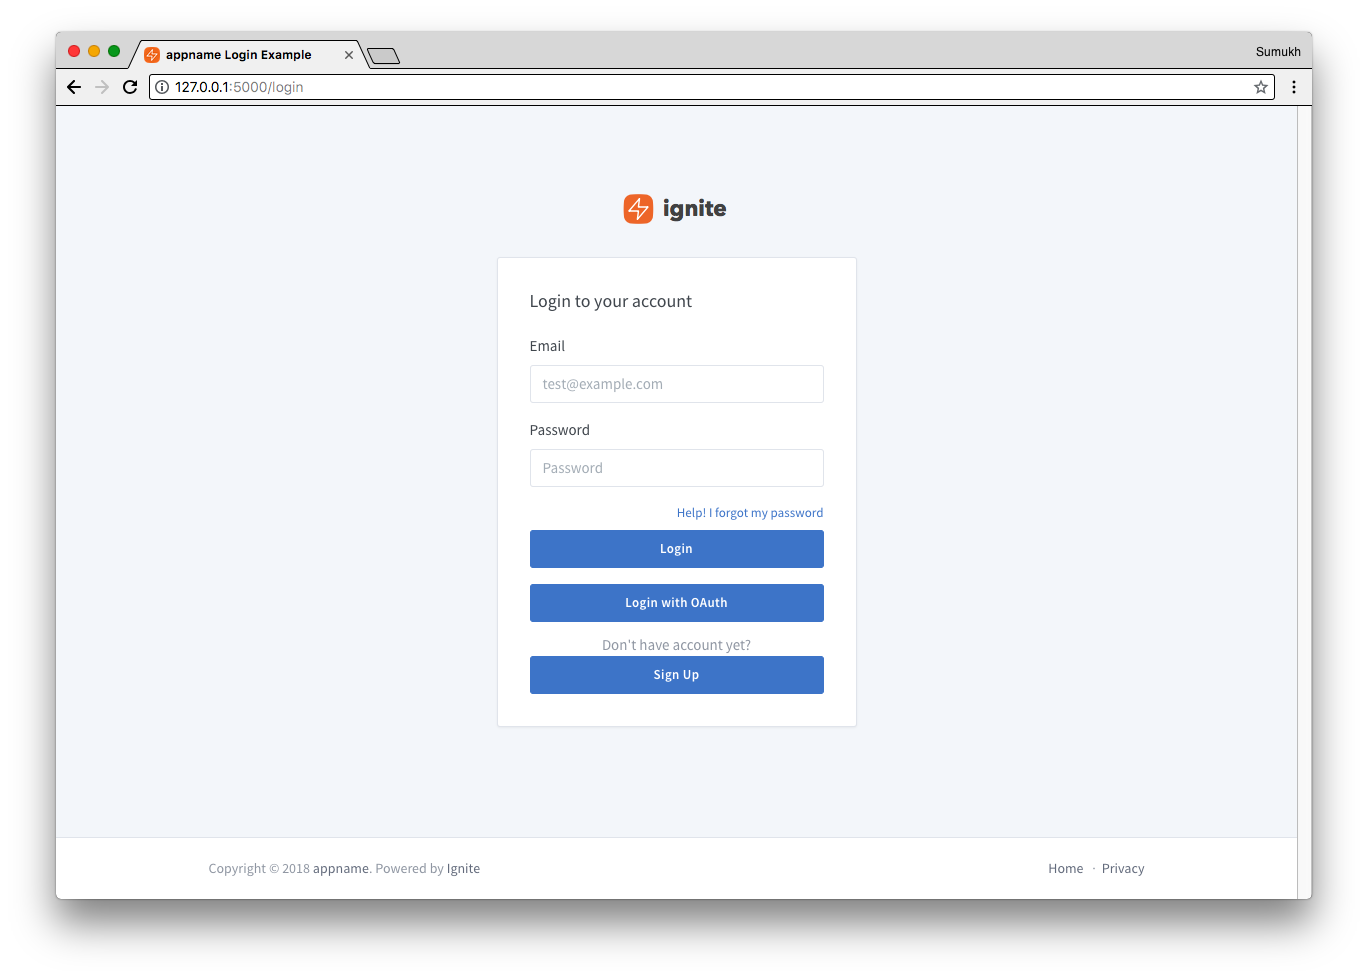
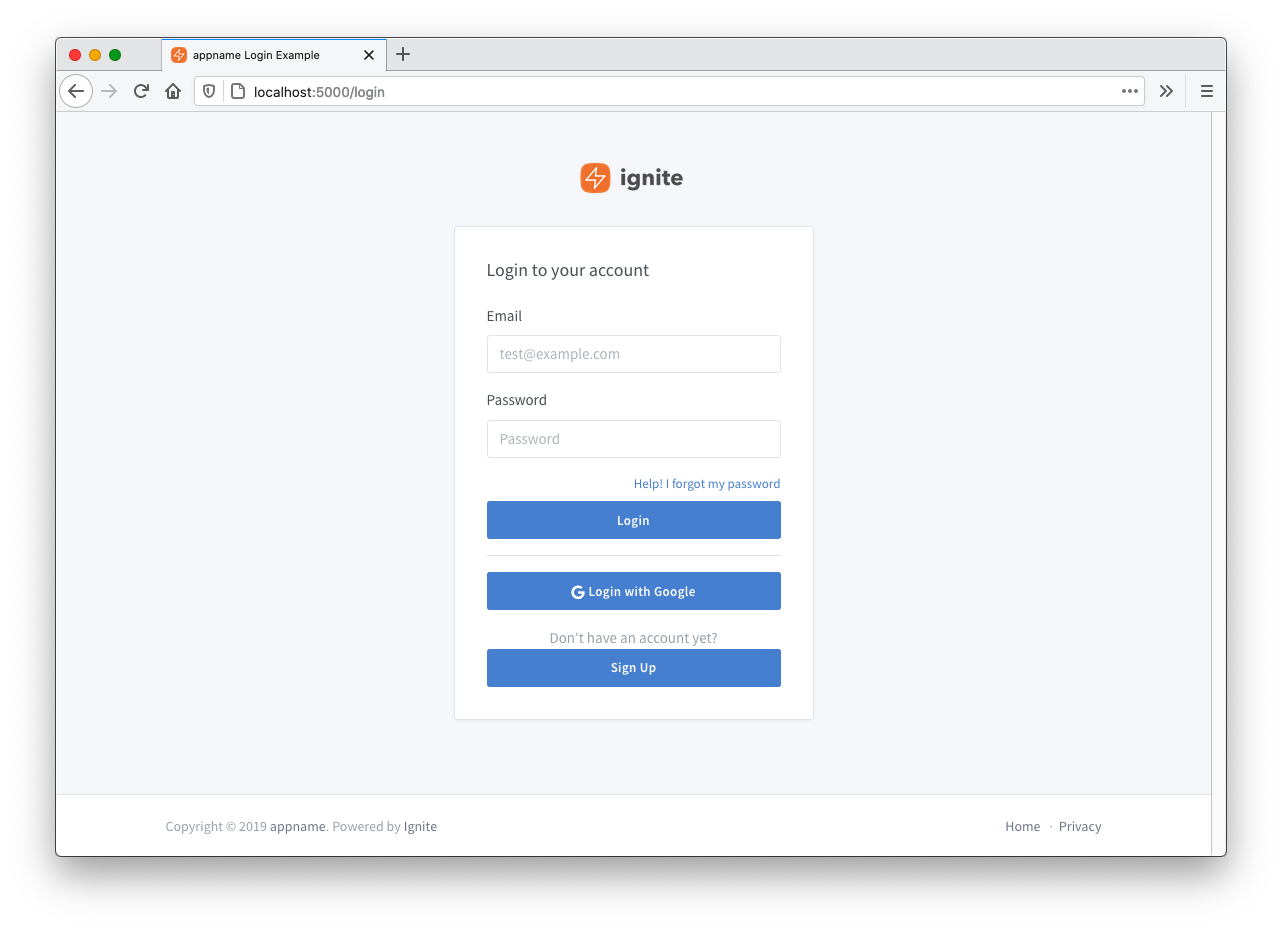
Minor tweaks + Screenshots

diff --git a/appname/templates/tabler/_header.html b/appname/templates/tabler/_header.html
@@ -2,7 +2,7 @@
     <div class="container">
         <div class="d-flex">
         <a class="header-brand" href="{{ url_for('main.home') }}">
-            <img src="{{ url_for('static', filename='public/ignite/ignite-logo.svg') }}" class="header-brand-img" alt="tabler logo">
+            <img src="{{ url_for('static', filename='public/ignite/ignite-logo@2x.png') }}" class="header-brand-img" alt="tabler logo">
         </a>
         <div class="d-flex order-lg-2 ml-auto">
             <div class="nav-item d-none d-md-flex">
@@ -13,8 +13,12 @@
                     <a href="#" class="nav-link pr-0 leading-none" data-toggle="dropdown">
                         <span class="avatar avatar-placeholder"></span>
                         <span class="ml-2 d-none d-lg-block">
-                        <span class="text-default">{{ current_user.email }}</span>
-                        <small class="text-muted d-block mt-1">Administrator</small>
+                        {% if current_user.full_name %}
+                            <span class="text-default">{{ current_user.full_name }}</span>
+                            <small class="text-muted d-block mt-1">{{ current_user.email }}</small>
+                        {% else %}
+                            <span class="text-default">{{ current_user.email }}</span>
+                        {% endif %}
                         </span>
                     </a>
                     <div class="dropdown-menu dropdown-menu-right dropdown-menu-arrow">

diff --git a/appname/templates/auth/invite.html b/appname/templates/auth/invite.html
@@ -9,7 +9,7 @@
         <div class="row">
             <div class="col col-login mx-auto">
                 <div class="text-center mb-6">
-                    <img src="{{ url_for('static', filename='public/ignite/ignite-logo.svg') }}" class="h-6" alt="Tabler">
+                    <img src="{{ url_for('static', filename='public/ignite/ignite-logo@2x.png') }}" class="h-6" alt="Tabler">
                     <h2> appname </h2>
                 </div>
                 <form role="form" class="card" action="{{ url_for('auth.signup', invite_secret=invite.invite_secret) }}" method="post">

diff --git a/appname/templates/auth/login.html b/appname/templates/auth/login.html
@@ -11,7 +11,7 @@
             <div class="col col-login mx-auto">
                 <div class="text-center mb-6">
                     {{ render_flashes() }}
-                    <img src="{{ url_for('static', filename='public/ignite/ignite-logo.svg') }}" class="h-6" alt="Tabler">
+                    <img src="{{ url_for('static', filename='public/ignite/ignite-logo@2x.png') }}" class="h-6" alt="Tabler">
                 </div>
                 <form role="form" class="card" action="{{ url_for('auth.login') }}" method="post">
 

diff --git a/appname/templates/auth/oauth_only_login.html b/appname/templates/auth/oauth_only_login.html
@@ -11,7 +11,7 @@
             <div class="col col-login mx-auto">
                 <div class="text-center mb-6">
                     {{ render_flashes() }}
-                    <img src="{{ url_for('static', filename='public/ignite/ignite-logo.svg') }}" class="h-6" alt="Tabler">
+                    <img src="{{ url_for('static', filename='public/ignite/ignite-logo@2x.png') }}" class="h-6" alt="Tabler">
                 </div>
                 <div class="card">
                     <div class="text-center mt-4 mb-4">

diff --git a/appname/templates/auth/signup.html b/appname/templates/auth/signup.html
@@ -9,7 +9,7 @@
         <div class="row">
             <div class="col col-login mx-auto">
                 <div class="text-center mb-6">
-                    <img src="{{ url_for('static', filename='public/ignite/ignite-logo.svg') }}" class="h-6" alt="Tabler">
+                    <img src="{{ url_for('static', filename='public/ignite/ignite-logo@2x.png') }}" class="h-6" alt="Tabler">
                 </div>
                 <div class="card">
                     <div class="card-body">

diff --git a/appname/templates/auth/request_password_reset.html b/appname/templates/auth/request_password_reset.html
@@ -9,7 +9,7 @@
         <div class="row">
             <div class="col col-login mx-auto">
                 <div class="text-center mb-6">
-                    <img src="{{ url_for('static', filename='public/ignite/ignite-logo.svg') }}" class="h-6" alt="Tabler">
+                    <img src="{{ url_for('static', filename='public/ignite/ignite-logo@2x.png') }}" class="h-6" alt="Tabler">
                     <h2> appname </h2>
                 </div>
 

diff --git a/appname/controllers/settings.py b/appname/controllers/settings.py
@@ -23,6 +23,11 @@ def index():
 @login_required
 def account():
     form = ChangeProfileForm()
+    if form.validate_on_submit():
+        current_user.full_name = form.name.data
+        db.session.add(current_user)
+        db.session.commit()
+
     return render_template('/settings/account.html', form=form)
 
 @settings_blueprint.route('/settings/password', methods=['GET', 'POST'])

diff --git a/appname/api/user.py b/appname/api/user.py
@@ -7,7 +7,8 @@ from appname.api import Resource, BaseAPISchema, API_VERSION
 class CurrentUserInfoSchema(BaseAPISchema):
     get_fields = {
         'id': fields.String,
-        'hashid': fields.String,
+        'email': fields.String,
+        'full_name': fields.String,
     }
 
 class CurrentUserInfo(Resource):
